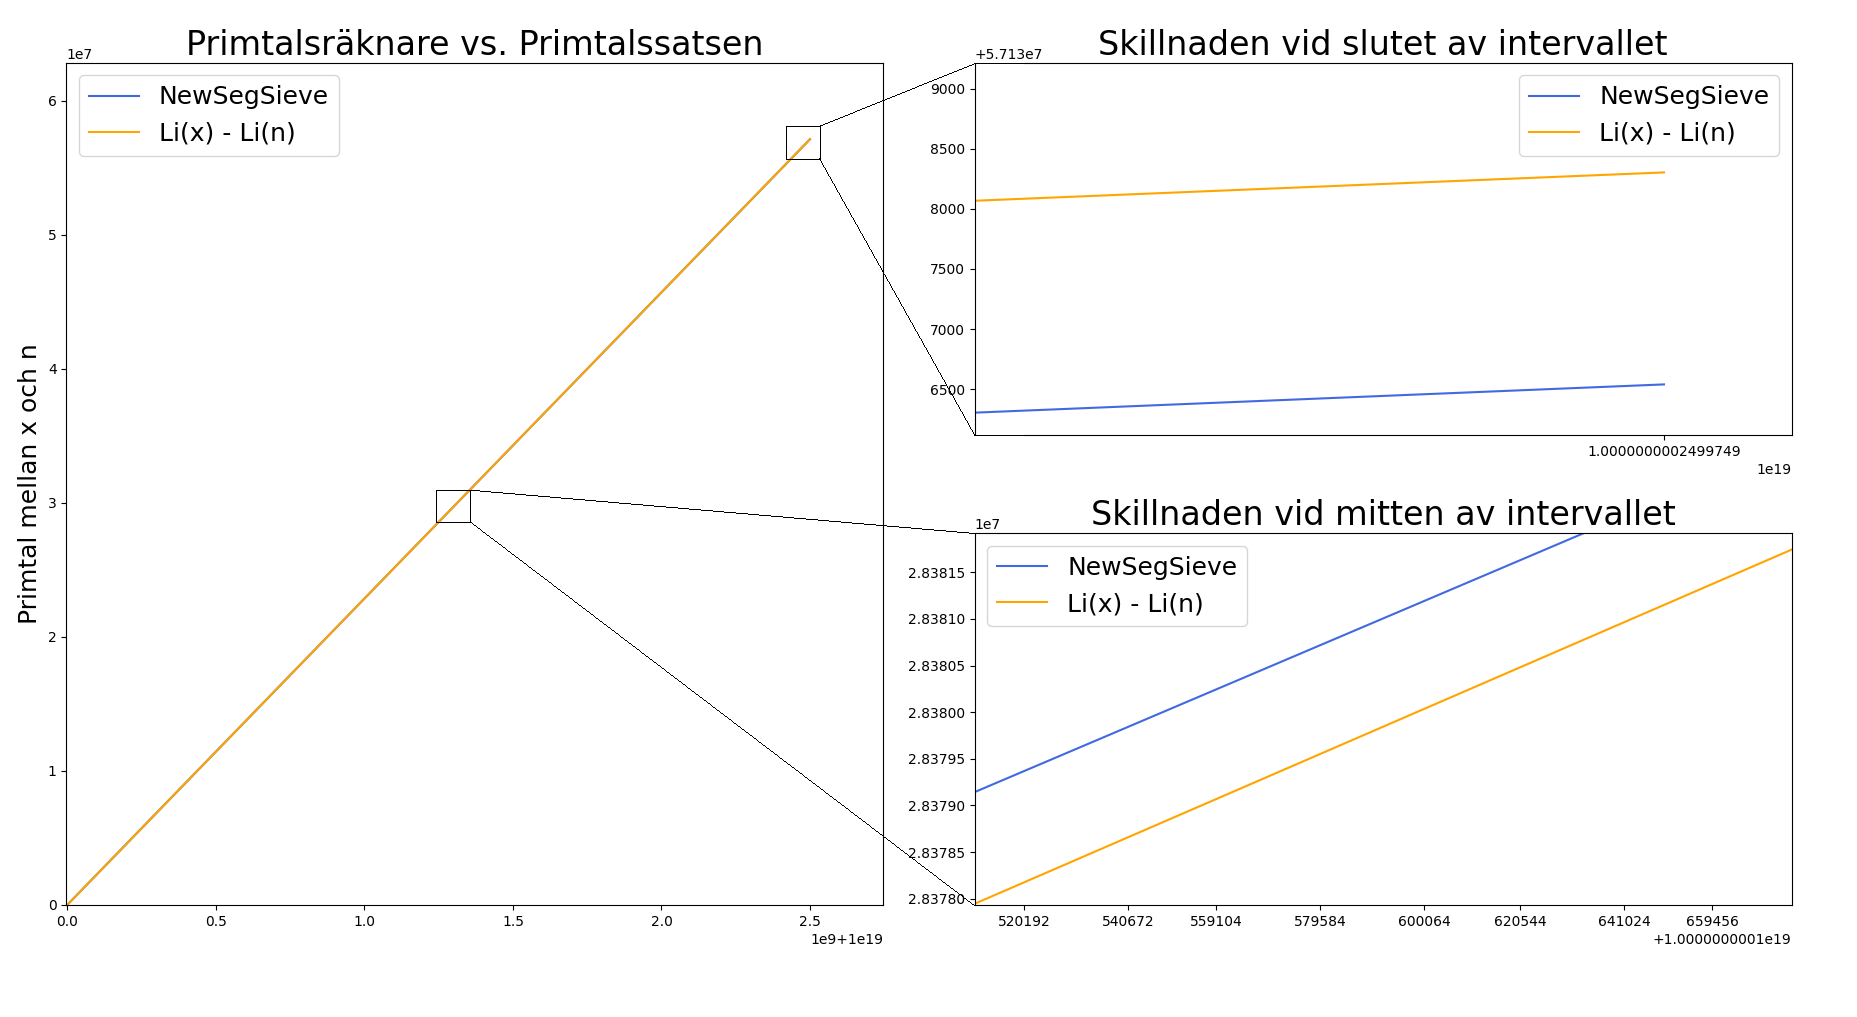
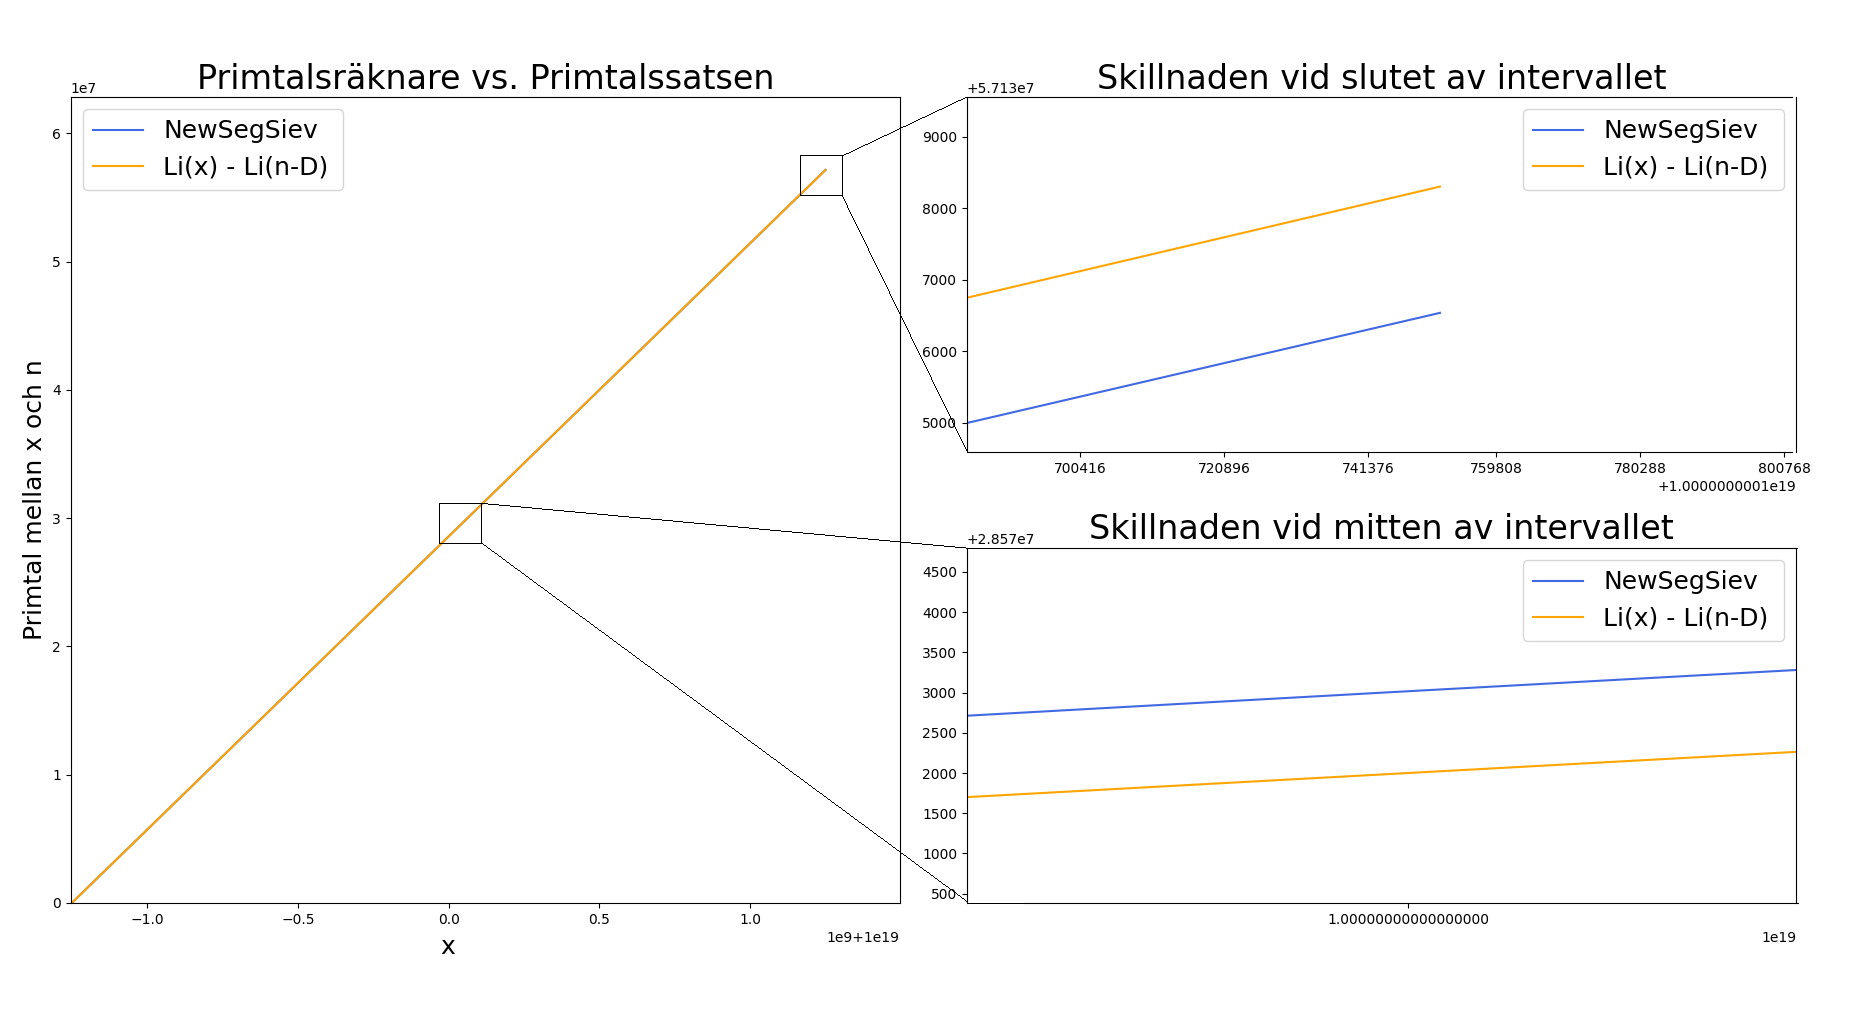
Updates from Overleaf

diff --git a/coen/applications.tex b/coen/applications.tex
@@ -1,22 +1,52 @@
-\todo{Introducera de tillämpningar som ska tagits upp; enkla primtal, tvillingsprimtal, primtal i aritmetiska talföljder, storleken på primtalsgap(?).}
+\todo{Allmän källhänvissning kräv här nere}
 
-%Over the course of this report we have refered to ,and approximated, the distribution of variouss classifications of prime numbers. Using now our implementation of Helfgott's origianl code we seeek to present the legitimacy of said distributions and also reflect on the quality of the code which we have written. The specific distributions ot be presented are those of the regula r prime numbers, the twin primes, as well as primes in arithmetic sequences. For each of these distributions have slight modifications been made to the code, which will be briefly discussed.
+%Over the course of this report we have refered to, and approximated, the distribution of variouss classifications of prime numbers. Using now our implementation of Helfgott's origianl code we seek to present the legitimacy of said distributions and also reflect on the quality of the code which we have written. The specific distributions to be presented are those of the regular prime numbers, the twin primes, and a the frequency of various prime gaps will also be presented. For each of these implementations have slight modifications been made to the code, which will be briefly discussed.
 
-\subsubsection{Fördelningen av primtal}
-\todo{Grafera antalet primtal vi har hittat jämfört emot PNT, både x/log x och Li(x). Diskutera sedan varför skillnader finns/ vad för slutsats vi kan dra(?)/ hur vi har kommit här?}
+Genom rapportens gång har vi hänvisat till, och uppskattat fördelningen av, ett antal klasser av primtal och deras egenskaper. 
+Nu, med användning av vår implementering av Helfgotts ursprunglig kod, ämnar vi att först redovisa legitimiteten av vår kod med stöd av primtalssatsens förväntad primtalsfördelning. 
+Sedan undersöker vi den möjliga sanningen av en hypotetisk fördelning för tvillingsprimtal. 
+Slutligen redovisas frekvensen av primtalsgapp, och mönster som uppträder där i.
+För varje implementering vilket kräver justering av koden, kommer dessa modifikationer förklaras kort, därmed finns fullständigt kod för modifikationerna finns med i Appendix XXX - YYY.
+
+\subsubsection{Fördelningen av primtal}\label{app.primes.title}
 %Beginning with the classic example of the set of prime numbers, below is illustrated the distribution predicted by the familiar x over log x from sieve theory/Chebychev, the more accurate lorgarithmic integral Li(x), and the actual number of primes found in using our implementation. In order to generate the following graph, no new sieving methods were introduced, simply the counting fucntion in Appendix X
+
+Vi börjar med att jämföra antalet primtal hittat med \textsc{NewSegSiev} emot fördelningen som ges av primtalssatsen, nämligen
+\begin{equation}
+    \pi(x) \sim Li(x) = \int_2^x\frac{1}{\log t}dt\label{app.primes.PNT}.
+\end{equation}
+För att skapa följande figur använder vi bara vår implementering av Helfgotts kod och en enkel räknesfunktion, Appendix XXX.
+
 \begin{figure}[H]
     \centering
     \includegraphics[width = \textwidth]{coen/Images/Primes.png}
-    \caption{\todo{Infoga en graf med antalet primtal enligt koden, x/log x, och Li(x)}}
+    \caption{I figuren till vänster redovisas antalet primtal vilket förväntas enligt primtalssatsen, \textit{orange}, och antalet primtal som hittades enligt \textsc{NewSegSiev}, \textit{blå}, då \(n = 10^{19}\), \(\Delta = 1.25\cdot10^{9}\), och \(K = 2.5\). 
+    Notera gärna att kurvorna ligger nästan på varandra. 
+    I de figuren till höger redovisas en zoomad version av grafen till vänster för att visa skillnaden mellan vår uppskattning och det som förväntas vid mitten av intervallet, där algoritmen returnerar kring 1000 fler primtal än förväntat, och vid slutet av intervallet, där algoritmen returnerar kring 1700 färre.}
     %This graph shows the relative distributions of primees as per the aforementioned fucntions. Notice that while x over log x appears relatively close for smaller x the logarithmic integral approximation is a near exact match for the true distribution, so much so that the code line is hidden.
     \label{fig:res.prime}
 \end{figure}
 %As shown in figure X, should we believe in the PNT it seems as though our code does indeed find the correct number of primes. The rather large error in the x over log x estimate is indicative/reflective of one of the limitations highlighted in Section XXX, namely the impact of the error terms and their reconcillation with the main terms. Howeve, there doest exist a deeper link between the x over log x estimate and that of the logarithmic integral. Throguh the use of integral wizardry you can decompose the logarithmic integral into a series of terms, the first of which being x over log x with the remainder being of the order of sqrt(x). This then accounts for the increase in error as x grows. Thiese kinds of approximations for the prime counting function can also be rather naturally extrapolated to those for twin primes, as discussed below.
 
+\todo{Diskussion needs works, going to be rewritten from scratch prolly}
+
+Som vi ser i vänstra grafen av figur \ref{fig:res.prime}, då vi nu tror på primtalssatsen så verkar det som vår kod hittar det korrekta antalet primtal i intervallet, eftersom skillnaden mellan kurvorna är nästa osynlig på makronivå. 
+Att de inte ligger exakt på varandra är en kombination av felet vilket inte visas i \eqref{app.primes.PNT}, felet skapat av interpoleringen som görs för att underlätta ritningen av graferna, och att egentligen är \(\pi(x)\) en stegfunktion. 
+Vi väljer parametrarna som de är för att först undersöka långt ifrån noll, med tanke på att öka feltermen för \eqref{app.primes.PNT}, och därför valde så stort \textit{n}\footnote{Att \textit{n} inte valdes större i detta fallet är på grund av körningstiden för koden.}.
+Följaktligen väljer vi \(\Delta\) på så sätt att vi använde Helfgotts förbättringar i \textsc{NewSegSiev}, \textsc{DiophAppr} funktionen, och för att göra det krävs en specifik storlek på intervallet.
+Slutligen väljer vi \textit{K} till 2.5 för att det är minsta K:et som kan vals enligt Helfgott.
+Tillsammans bildar dessa parametrar en bra bas för de följande tillämpningar då vi sparar bitarry:n och läser in den istället för att hitta alla primtal över igen.
+\todo{Diskutera mer varför detta gör algoritmen pålitligt/kommentera på hur nogrannt Eratosthenes algoritm är}
+
 \subsubsection{Fördelningen av tvillingsprimtal}
-\todo{Introducera de förändringarna som utfördes för att tillåta koden att sålla efter tvillingsprimtal.}
 %Continuing our presentation of various sets of prime's distributions, next we turn to the other recurring theme of twin primes. The following figure illustrates the distributions of twin primes as predicted by x over log squared x and the second order logarithmic integral against those primes found using our implementation. It should be noted that a rather simple help function, Appendix XXX, was written which searches for non twin primes in the prime list and removes them.
+
+Med hjälp av de primtal vi hittade i \ref{app.primes.title}, vänder vi oss nu till tvillingsprimtal och deras hypotetisk fördelning. Det finns ingen sats för tvillingsprimtal vilket motsvarar primtalssatsen för enkla primtals fördelning, dock så finns det en hypotetisk fördelning vilket är
+\begin{equation}
+    \pi_2(x) \sim 2C_2\cdot Li_2(x) = 2C_2\int_2^x\frac{1}{(\log t)^2}dt\label{app.twins.TWN}
+\end{equation}
+där \(C_2 = 0.6608...\) är tvillingsprimtalskonstanten. Genom att utveckla vår kod lite kan vi hitta alla tvillingsprimtal i de primtal vi har genererad och sedan jämföra vår fördelning emot den hypotetiska. Vi utveckla koden genom att introducera en funktion, Appendix XXX, vilket sållar bort alla icke tvillingsprimtal i en lista av primtal.
+
 \begin{figure}[H]
     \centering
     \includegraphics[width = \textwidth]{coen/Images/TwinPrimesNoKapp.png}
@@ -24,14 +54,14 @@
     %This graph shows the relative distributions of the twin primes as per the aforementioned fucntions. Notice once again the accuarcy of the logarithmic integral, once again hiding our code line, as opposed to that of C x over log squared x, where the constant is 2*C_2, or 2 times the twin prime constant (discussed below).
     \label{fig:res.twins}
 \end{figure}
-\todo{Diskutera och förklara varför saker ser ut som de gör, vanliga saker. Kan vi lita på koden?(Kanske inte nödvändigt)}
+\todo{Diskutera och förklara varför saker ser ut som de gör, vad detta säger för tvillingsprimtalshypoteseen och hur vår val av C2 har påverkat saker}
 %There are a number of things to discuss regardng the above figure. 
-\subsubsection{Fördelningen av primtal i aritmetiska talföjlder}
-\todo{Introducera de förändringarna som utfördes för att tillåta koden att sålla efter primtal i vissa aritmetiska talföljder.}
+\subsubsection{Frekvens av primtalsgapp}
+\todo{Introducera de förändringarna som utfördes för att tillåta koden att bestämma storleken på primtalsgapp. Koppla till inledningen och väd dettahar att göra med sållteori}
 \begin{figure}[H]
     \centering
     \includegraphics[width = 0.7\textwidth]{coen/Images/test.png}
-    \caption{\todo{Infoga en graf med antalet primtal i aritmetiska följder enligt koden, Brun-Titchmarsh, Dirichlet serier(eller vad det nu var). Vad har vi valt epsilon till? Gör det något skillnad?}}
+    \caption{\todo{Infoga en histogram och sedan påpeka mönster}}
     \label{fig:res.arit}
 \end{figure}
-\todo{Diskutera ovanstående graf. Hur rimligt är uppskattningen? Hur dåligt är vår bästa approximation enligt koden?}
+\todo{Diskutera ovanstående graf. Varför har vi vad vi har? Hur kan detta kopplas till tvillingsprimtal?}
